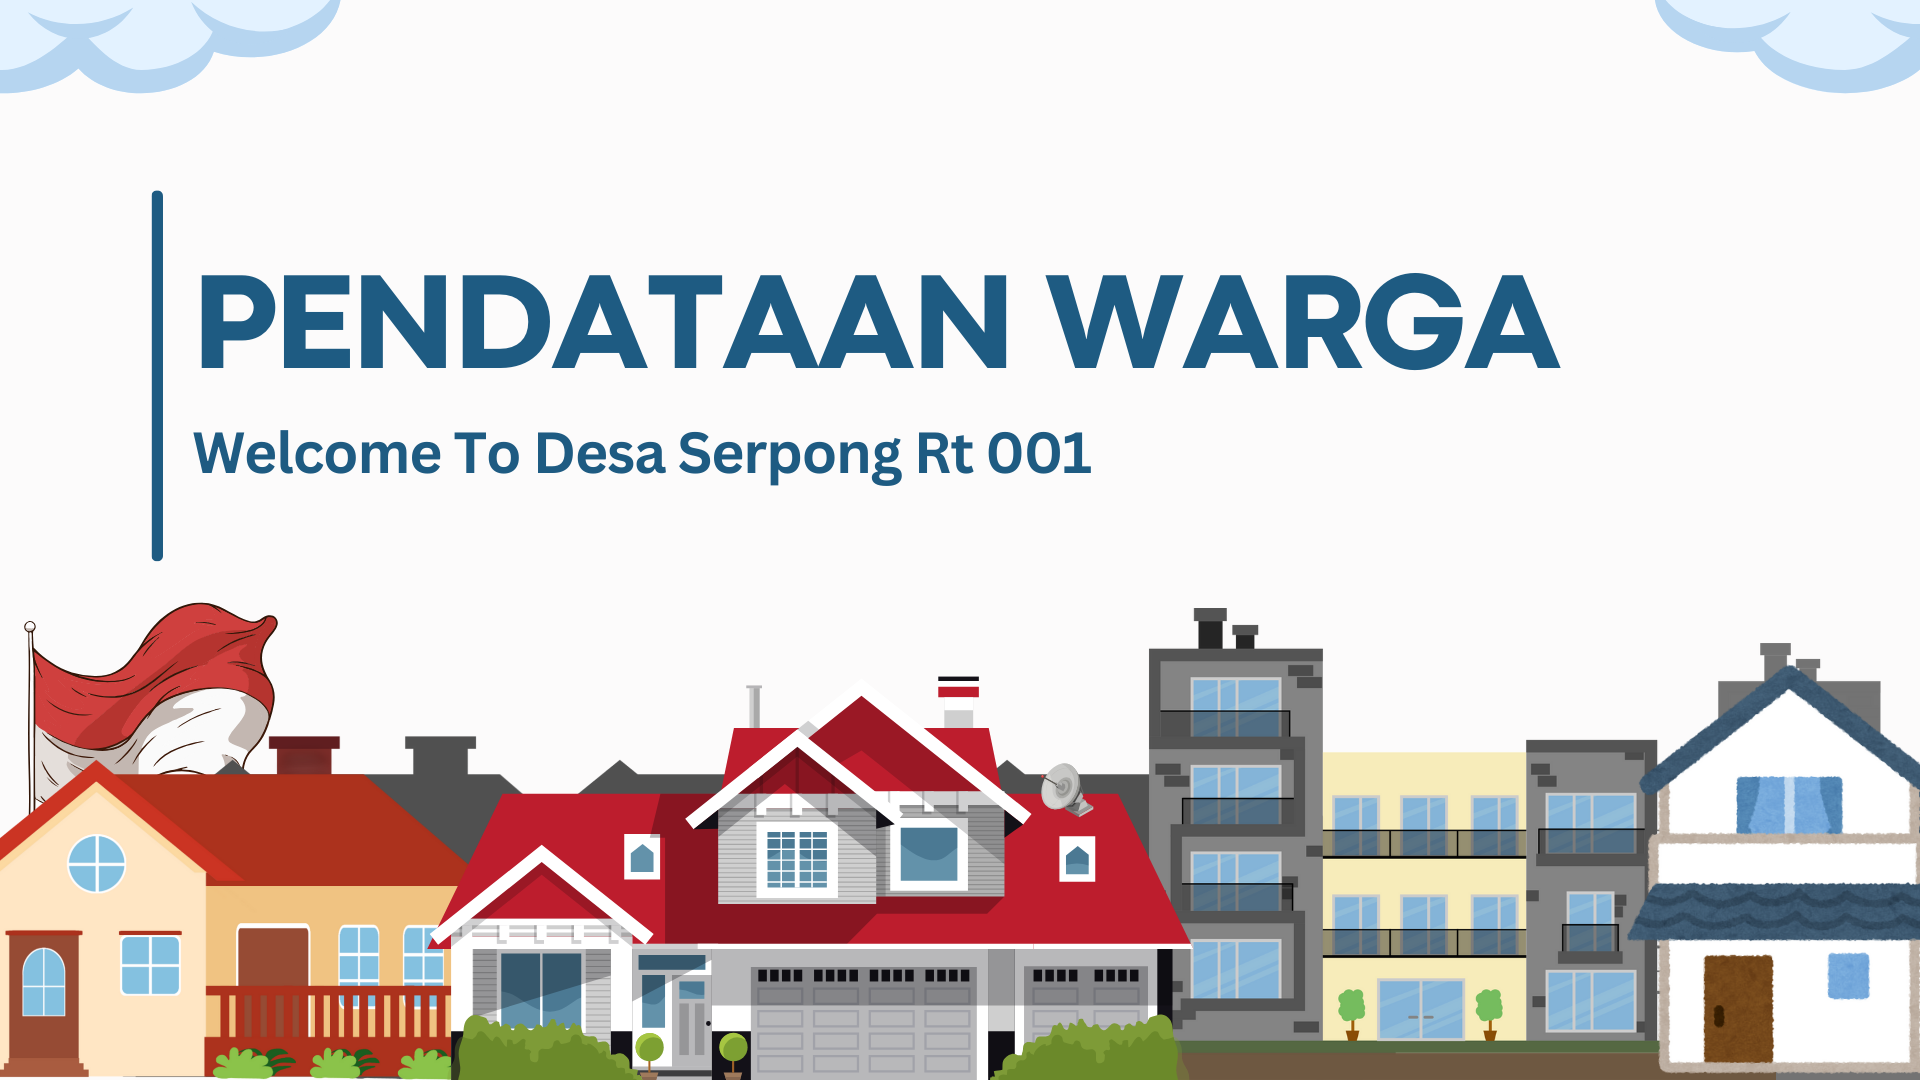
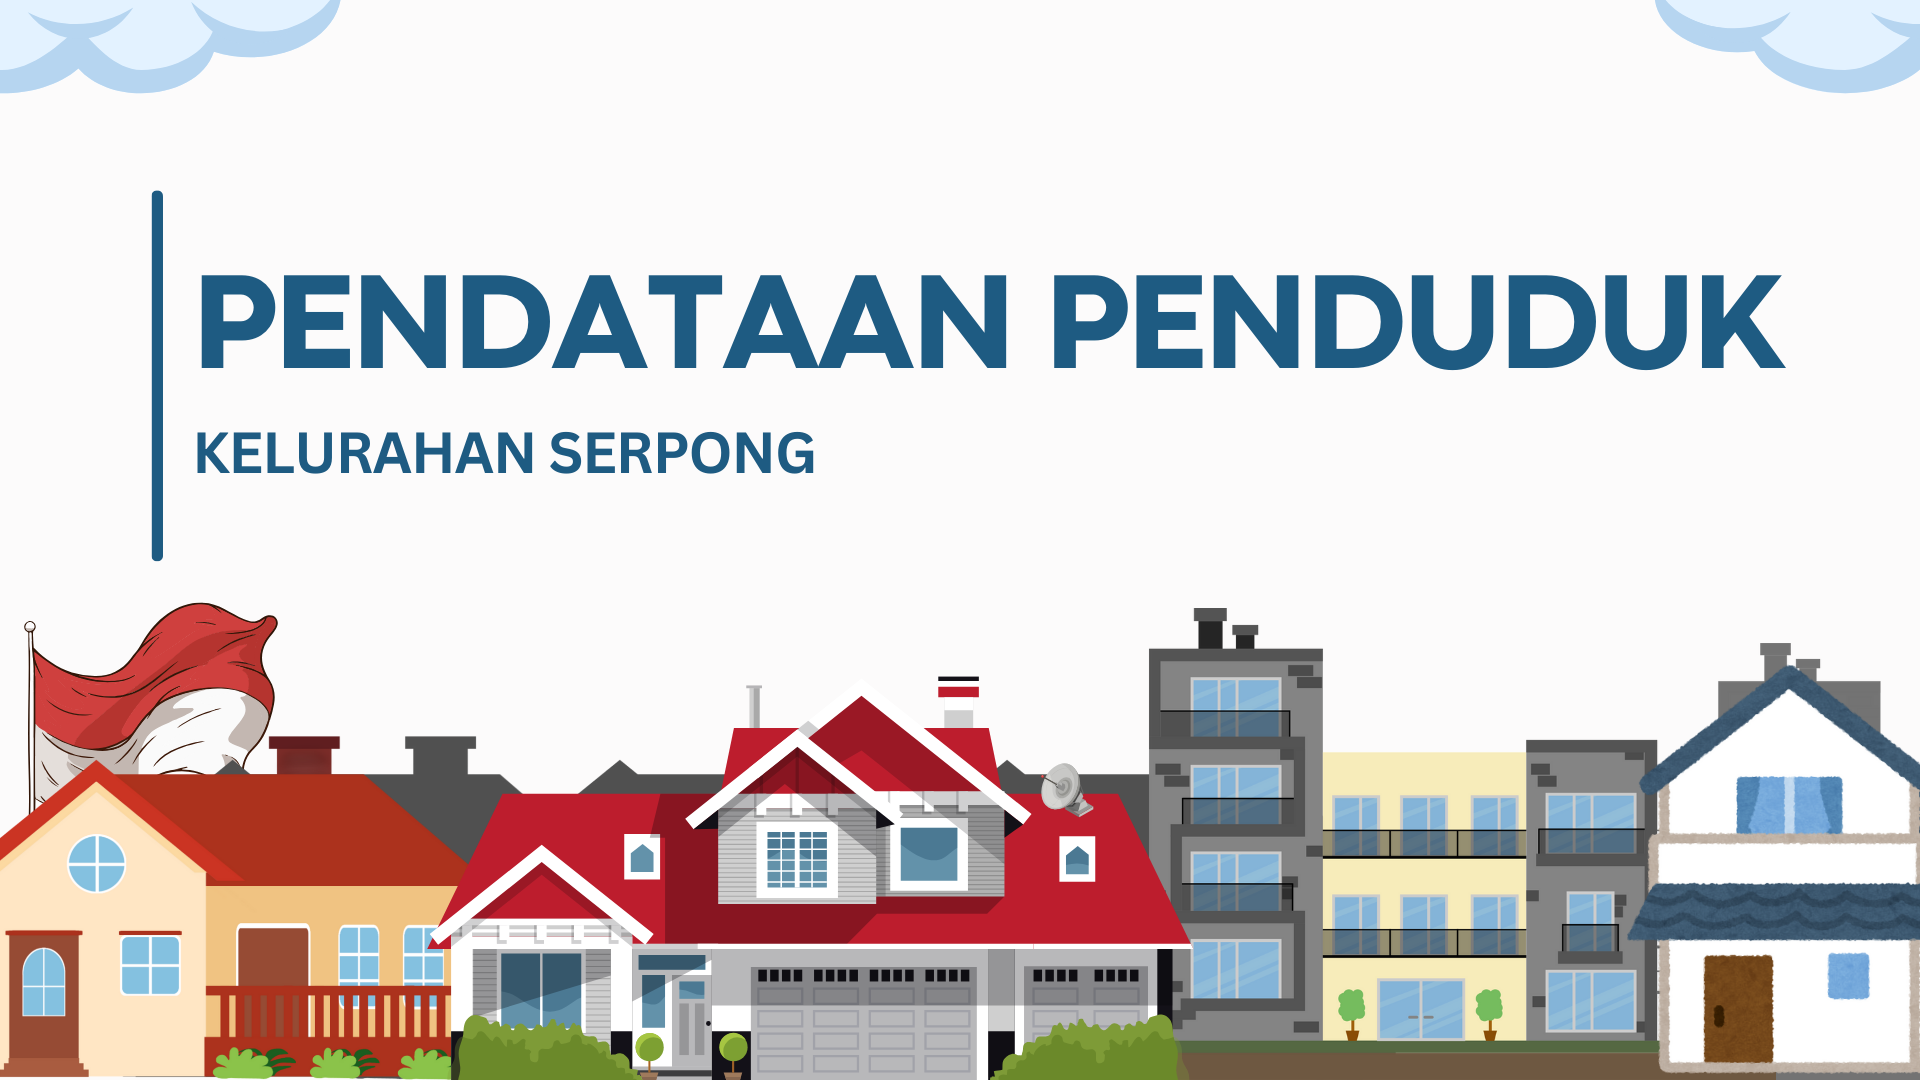
Modified

Changed region(s): [[0.5312, 0.2444, 0.9375, 0.3667], [0.0938, 0.3972, 0.5625, 0.4583]]

diff --git a/application/views/template/sidebar.php b/application/views/template/sidebar.php
@@ -7,7 +7,7 @@
         
             <!-- Sidebar - Brand -->
             <a class="sidebar-brand d-flex align-items-center justify-content-center" href="<?php echo base_url('admin/dashboard') ?>">
-                <div class="sidebar-brand-text mx-3">PENDATAAN WARGA</div>
+                <div class="sidebar-brand-text mx-3">PENDATAAN PENDUDUK</div>
             </a>
 
             <!-- Divider -->
@@ -64,7 +64,6 @@
                         <a class="collapse-item" href="<?php echo base_url('SuratDomisili') ?>"><i class="fas fa-envelope"></i> SK Domisili</a>
                         <a class="collapse-item" href="<?php echo base_url('Sktm') ?>"><i class="fas fa-envelope"></i> SKTM </a>
                         <a class="collapse-item" href="<?php echo base_url('Surat_izin_keluarga') ?>"><i class="fas fa-envelope"></i> Surat Izin Pekerja</a>
-                        <a class="collapse-item" href="<?php echo base_url('surat/surat_skck') ?>"><i class="fas fa-envelope"></i> SKCK</a>
                         <a class="collapse-item" href="<?php echo base_url('surat/surat_menikah') ?>"><i class="fas fa-envelope"></i> SK Menikah</a>
                         <a class="collapse-item" href="<?php echo base_url('surat/surat_belum_menikah') ?>"><i class="fas fa-envelope"></i> SK Belum Menikah</a>
                         <a class="collapse-item" href="<?php echo base_url('surat/surat_belum_sekolah') ?>"><i class="fas fa-envelope"></i> SK Belum Sekolah</a>

diff --git a/application/views/admin/dashboard.php b/application/views/admin/dashboard.php
@@ -1,6 +1,6 @@
 <!-- Begin Page Content -->
     <div class="container mb-4" style="display: flex; justify-content: center;">
-        <img src="<?php echo base_url('assets/img/backgrounds/dashboard.jpg'); ?>" style="width: 100%; height: auto; border: 1px solid #62aad4; border-radius: 10px; box-shadow: 10px 10px 5px 0px rgba(189,185,185,0.75);">
+        <img src="<?php echo base_url('assets/img/backgrounds/Background Website.png'); ?>" style="width: 100%; height: auto; border: 1px solid #62aad4; border-radius: 10px; box-shadow: 10px 10px 5px 0px rgba(189,185,185,0.75);">
     </div>
 
     <div class="row" style="display: flex; justify-content: space-evenly;">

diff --git a/application/views/template/header.php b/application/views/template/header.php
@@ -9,8 +9,8 @@
     <meta name="description" content="">
     <meta name="author" content="">
 
-    <title>Levana</title>
-    <link rel="icon" href="<?= base_url('assets/img/logo/logowebsite.jpg'); ?>" type="image/x-icon">
+    <title>PENDATAAN PENDUDUK</title>
+    <link rel="icon" href="<?= base_url('assets/img/logo/logo_web.png'); ?>" type="image/x-icon">
 
     <!-- Custom fonts for this template-->
     <link href="<?php echo base_url() ?>/assets/vendor/fontawesome-free/css/all.min.css" rel="stylesheet" type="text/css">

diff --git a/application/views/autentifikasi/login.php b/application/views/autentifikasi/login.php
@@ -48,7 +48,7 @@
           </span>
 
           <span class="login100-form-title p-b-48">
-            <img src="<?php echo base_url(); ?>/assets/img/logo/logowebsite.jpg" width="200" height="200">
+            <img src="<?php echo base_url(); ?>/assets/img/logo/logo_web.png" width="200" height="200">
           </span>
           <?php
           if ($this->session->flashdata('gagal')) {
